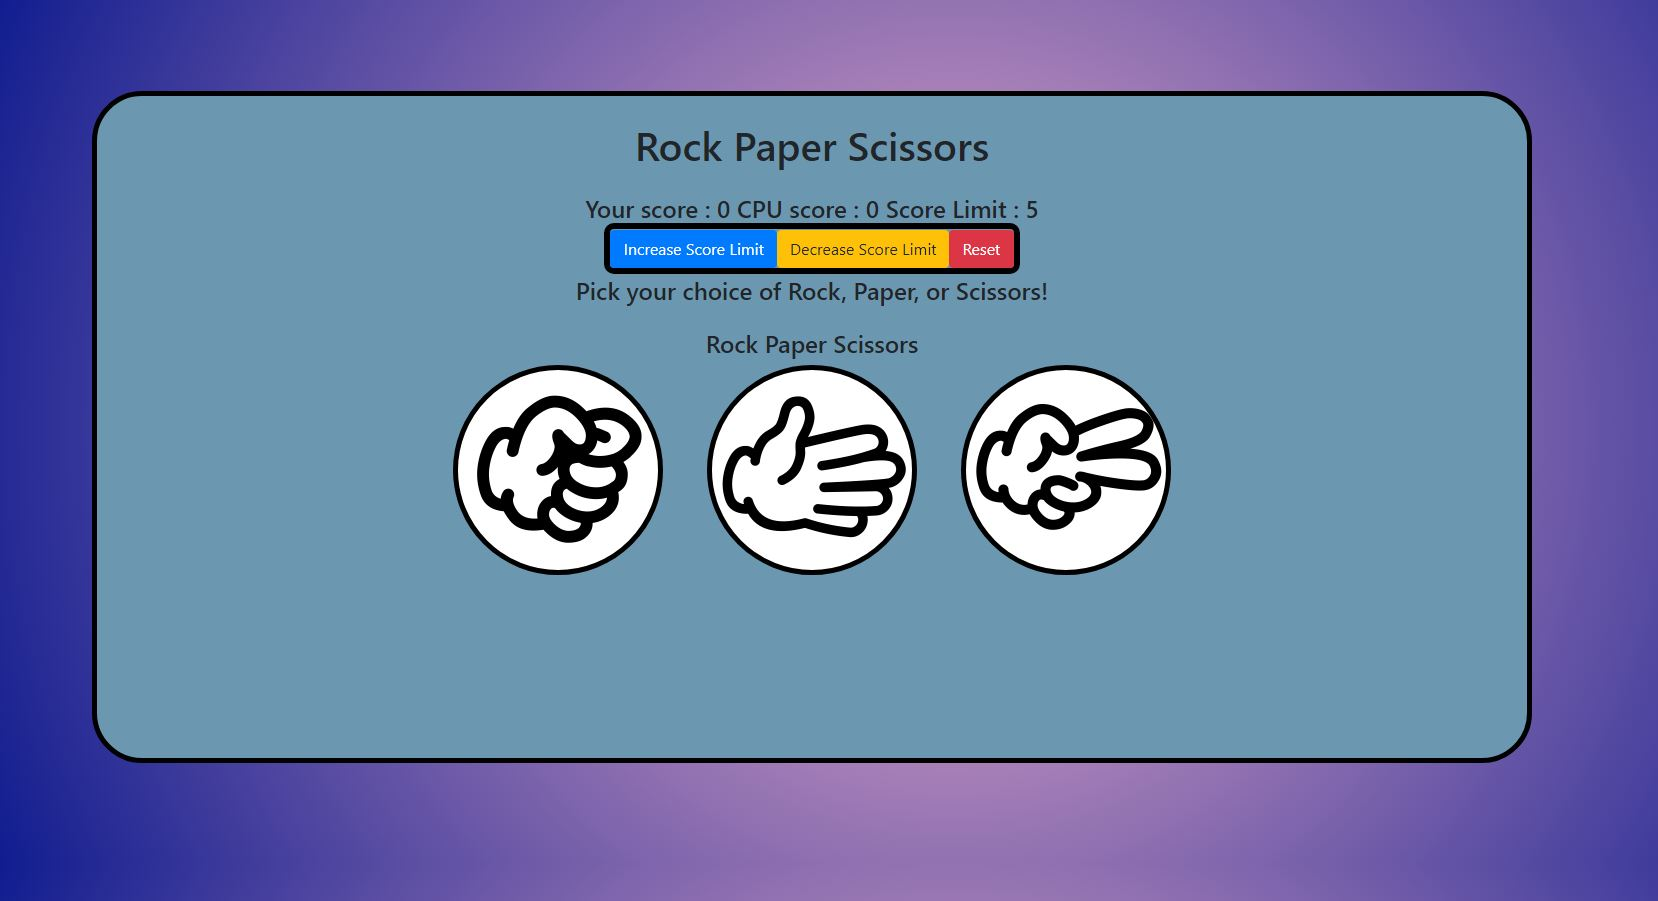
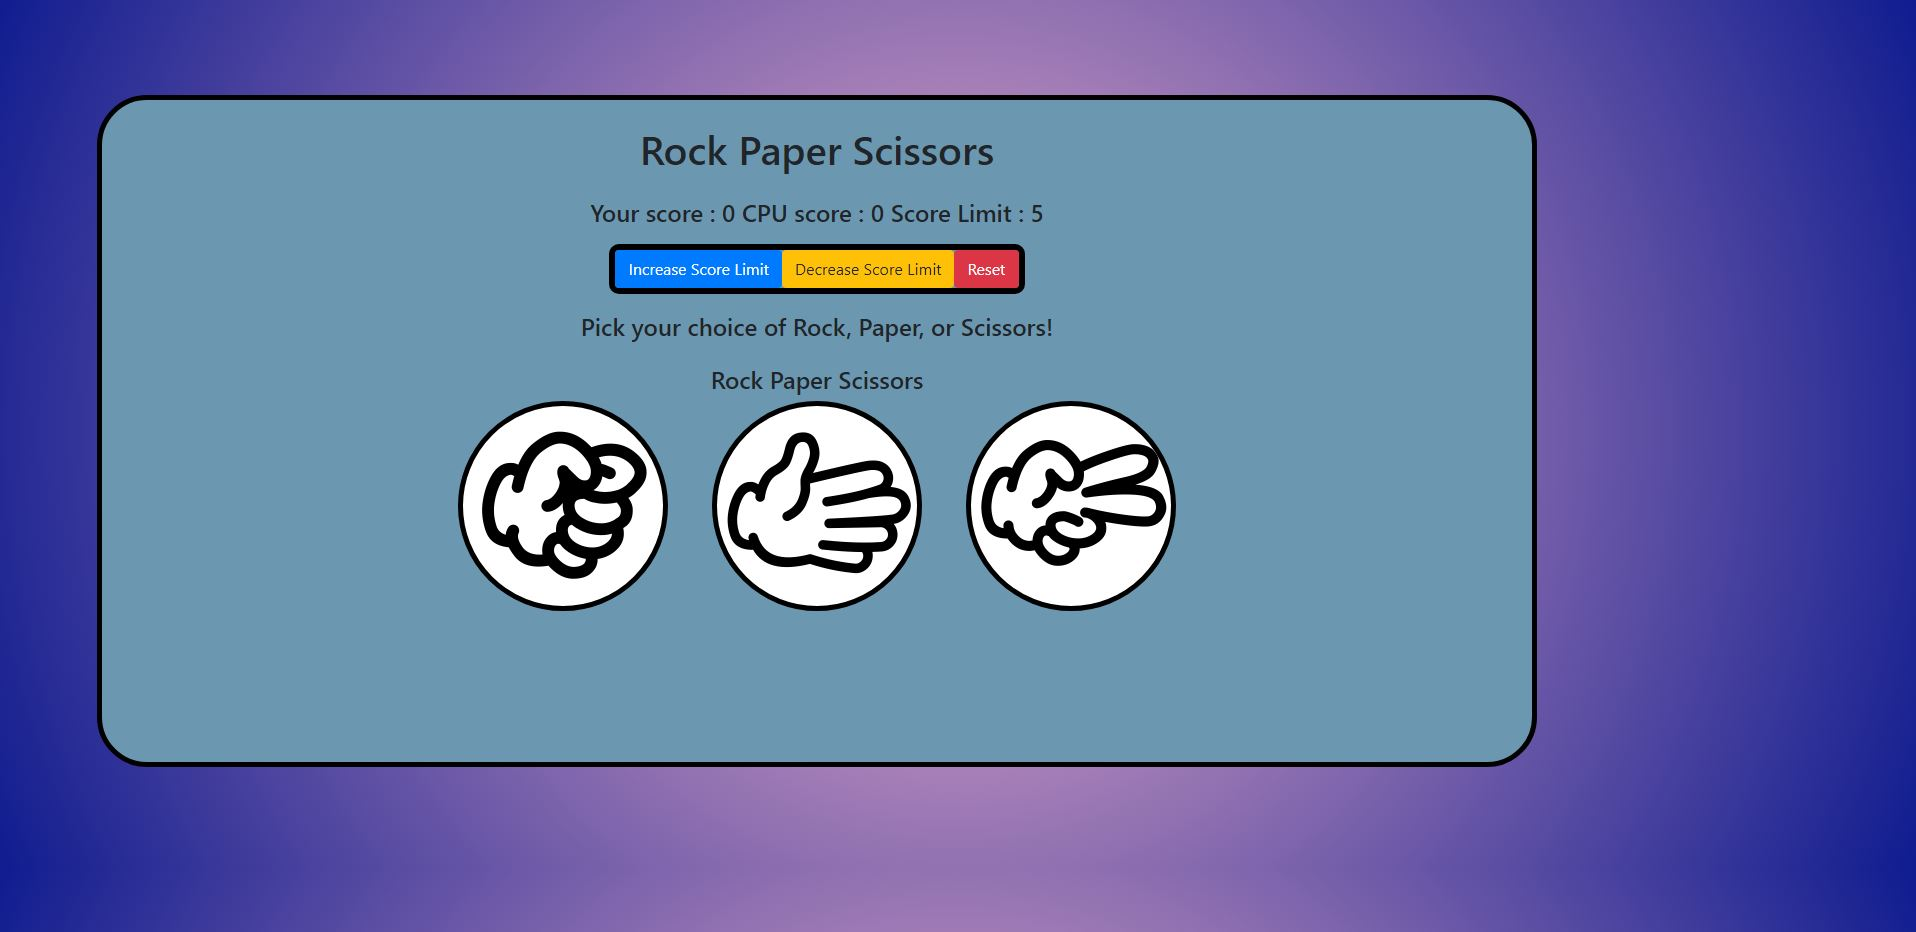
Added margin-top and margin-bottom to buttons. Got rid of console.log() for testing game as it is working as intended.

diff --git a/scripts.js b/scripts.js
@@ -46,7 +46,6 @@ resetBtn.addEventListener("click", function(){
 rock.addEventListener("click", function(){
     userChoice = choices[0];
     cpuChoice = cpuPick();
-    console.log("userChoice: " + userChoice + " cpuChoice: " + cpuChoice);
     determineWinner(userChoice, cpuChoice);
     if(endGame()) {
         displayWinner();
@@ -56,7 +55,6 @@ rock.addEventListener("click", function(){
 paper.addEventListener("click", function(){
     userChoice = choices[1];
     cpuChoice = cpuPick();
-    console.log("userChoice: " + userChoice + " cpuChoice: " + cpuChoice);
     determineWinner(userChoice, cpuChoice);
     if(endGame()) {
         displayWinner();
@@ -66,7 +64,6 @@ paper.addEventListener("click", function(){
 scissors.addEventListener("click", function(){
     userChoice = choices[2];
     cpuChoice = cpuPick();
-    console.log("userChoice: " + userChoice + " cpuChoice: " + cpuChoice);
     determineWinner(userChoice, cpuChoice);
     if(endGame()) {
         displayWinner();
@@ -74,7 +71,7 @@ scissors.addEventListener("click", function(){
 });
 /* Event listeners End */
 
-/*Function declarations start */
+/* Function declarations start */
 function init() {
     userScore = 0;
     cpuScore = 0;
@@ -85,6 +82,7 @@ function init() {
 }
 
 function cpuPick() {
+    //pick random number from 0 to 2
     temp = Math.floor(Math.random() * 3)
     return choices[temp];
 }

diff --git a/index.html b/index.html
@@ -20,7 +20,6 @@
         </h4>
         <h4 id="msgDisplay"><span id="msg">Pick your choice of Rock, Paper, or Scissors!</span></h4>
         <div class="imgcontainer">
-            <h4>Rock Paper Scissors</h4>
             <img class="playimg" id="rock" src="imgs/rock.png">
             <img class="playimg" id="paper" src="imgs/paper.png">
             <img class="playimg" id="scissors" src="imgs/scissors.png">

diff --git a/styles.css b/styles.css
@@ -48,5 +48,6 @@ body {
 #btnborder {
     border: 6px solid black;
     border-radius: 10px;
-    padding-bottom: 7px;
+    display: inline-block;
+    margin: 10px auto;
 }
